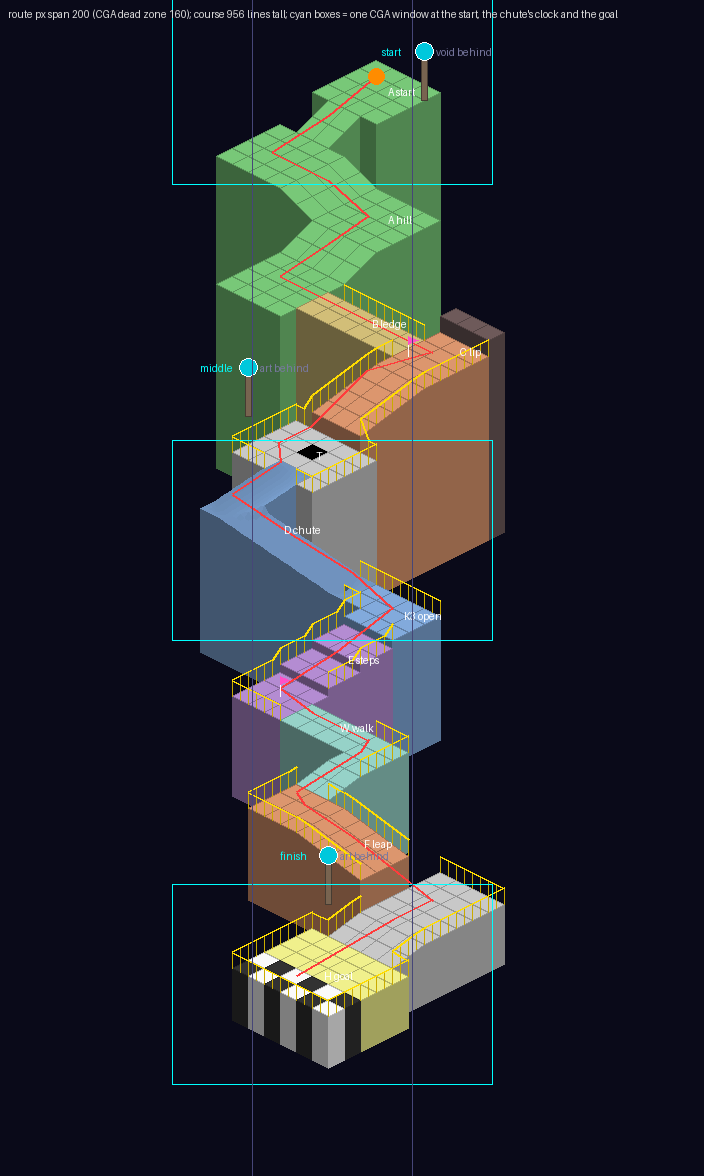
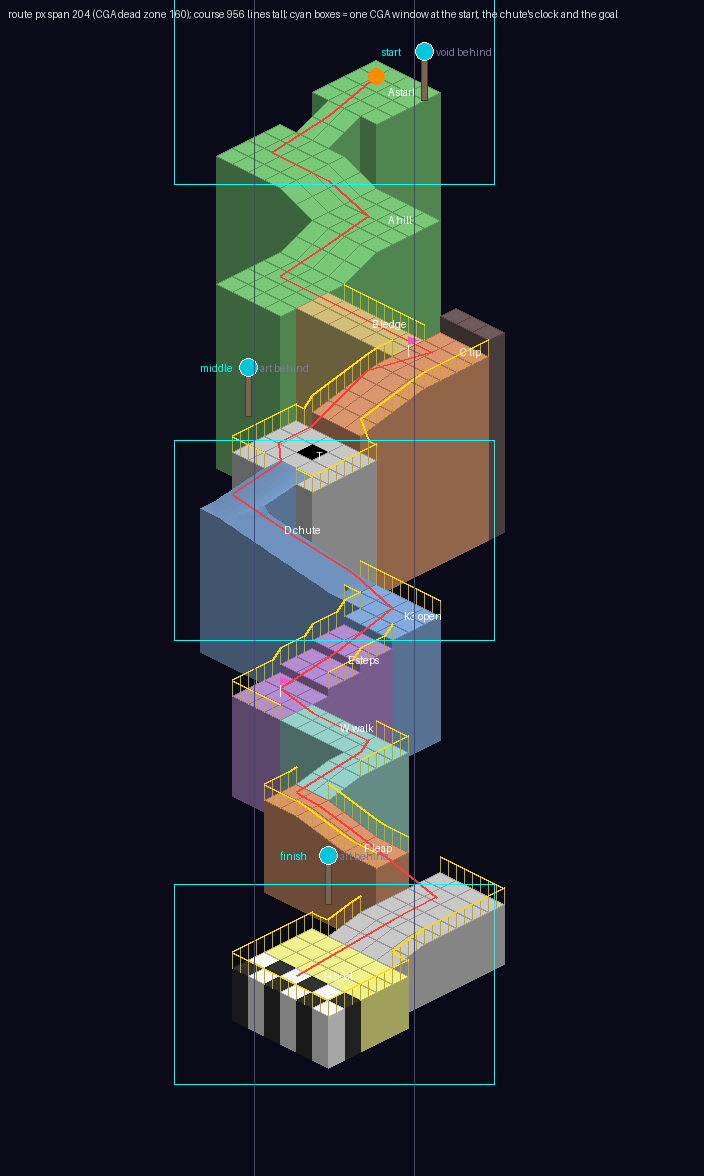
bonanza: FIRST ROLL revision 9 - a real ARCHWAY by the leap (the leap's approach 2 wide), the chevrons kept off the rails, one more diagonal
The owner's mark-up of playtest 6, read by diffing their edited preview
against the one sent: the first landing's back corner cut (half up), and
four black pixels on the chevrons. decals.py now compiles through a render
that keeps each pixel's owner cell and paints a decal only where its own
floor is the visible surface, so the chevrons stay off the rails; the
owner's pixels go on after. The banner frame is replaced by an ARCHWAY
(SPEC.md 130.39, `under 3`) over a flat cell by the lip, the approach
made 2 wide to suit it. The model clears the leap (36.2 s, no fall, no
pan); the part 9,807 bytes on the disk.

Claude-Session: https://claude.ai/code/session_01Wo8a4suEiDfFPFBsnHYKF3

Changed region(s): [[0.3438, 0.6735, 0.625, 0.7959]]

diff --git a/docs/plans/bonanza-courses/first/decals.py b/docs/plans/bonanza-courses/first/decals.py
@@ -49,11 +49,16 @@ START = (9, 9, Z)                                      # the start cell and its 
 LIP = (24, 27, 24, 28, Z - 6, Z - 8)                   # the lip ramp: x 24 - 27, y 24 - 28, z 20 -> 18 (+y)
 
 
+# (revision 9: the FRAME and its banner are gone - the owner: "The ball rolls in front of the arch, because
+# its just art ... But we have an actual arch, as a prop, we can use" - the sketch lays an ARCHWAY instead)
+
+# the owner's own pixels on the chevrons (2026-11-18, read off their edit of the preview): black, in picture
+# coordinates - three where the tile under the leading arm showed through, one to even the forward arrow
+CHEV_TOUCH = [(251, 401), (250, 402), (249, 403), (232, 415)]
+
+
 def geometry_lines():
-    L = ["# the FRAME before the leap: the run-up's last rail blocks raised into pillars",
-         "wall  tile %d %d  flat %g" % (RUNUP_X, FRAME_Y[0], FRAME_TOP),
-         "wall  tile %d %d  flat %g" % (RUNUP_X, FRAME_Y[1] - 1, FRAME_TOP),
-         "# LONE pillars in the void, away from the path, each topped by a pennant"]
+    L = ["# LONE pillars in the void, away from the path, each topped by a pennant"]
     for x, y, z in LONE:
         L += ["floor tile %d %d  flat %g" % (x, y, z), "float tile %d %d" % (x, y)]
     return L
@@ -61,16 +66,20 @@ def geometry_lines():
 
 # ---- rasterising ---------------------------------------------------------------
 class Art:
-    """pixels (picture px) -> colour, with an outline pass"""
+    """pixels (picture px) -> colour, with an outline pass; `host`: the cells a decal may be painted on -
+    a pixel whose VISIBLE surface (the canvas's owner, the tile that drew it last) is another cell is left
+    alone, so a decal never paints over a rail or anything else standing in front of its floor"""
 
-    def __init__(self):
+    def __init__(self, host=None):
         self.px = {}
+        self.host = host
 
     def outline(self, inside, colour, box):
         """fill the pixels whose centre `inside` accepts with colour, and every filled pixel with a
         4-neighbour outside the shape black: a one-pixel line, the game's"""
         x0, y0, x1, y1 = box
-        got = {(x, y) for y in range(y0, y1) for x in range(x0, x1) if inside(x + 0.5, y + 0.5)}
+        got = {(x, y) for y in range(y0, y1) for x in range(x0, x1) if inside(x + 0.5, y + 0.5)
+               and (self.host is None or owner_at(x, y) in self.host)}
         for (x, y) in got:
             edge = any((x + dx, y + dy) not in got for dx, dy in ((1, 0), (-1, 0), (0, 1), (0, -1)))
             self.px[(x, y)] = K if edge else colour(x, y)
@@ -85,6 +94,29 @@ class Art:
             f.write("# %s\n# GENERATED by docs/plans/bonanza-courses/first/decals.py - edit that, not this\n" % note)
             f.write("\n".join(rows) + "\n")
         return ax, ay
+
+
+CANVAS = []
+
+
+def owner_at(x, y):
+    """the cell that drew picture pixel (x, y) last, from the course's own render (None: nothing)"""
+    cv = CANVAS[-1]
+    if not (0 <= y < cv.h and 0 <= x < cv.w):
+        return None
+    v = cv.obuf[y][x]
+    return None if v < 0 else (v >> 8, v & 255)
+
+
+def capture_render():
+    """compile through a render that keeps every pixel's owner (Canvas.obuf), and keep the picture's canvas"""
+    orig = B.render
+
+    def rec(tiles, ops, x0, y0, w, h, owners=False):
+        cv = orig(tiles, ops, x0, y0, w, h, True)
+        CANVAS.append(cv)
+        return cv
+    B.render = rec
 
 
 def floor_point(c, X, Y, z):
@@ -127,8 +159,8 @@ def tee(c):
 
 def chevrons(c):
     """two chevrons down the lip's ramp, pointing downhill (+y): magenta, black-lined"""
-    a = Art()
     x0, x1, y0, y1, za, zb = LIP
+    a = Art(host={(x, y) for x in range(x0, x1) for y in range(y0, y1)})
     zf = lambda X, Y: za if Y is None else za + (zb - za) * min(1, max(0, (Y - y0) / (y1 - y0)))
     cx = (x0 + x1) / 2.0
     tips = (25.55, 26.75)                                # each chevron's tip, y
@@ -148,6 +180,8 @@ def chevrons(c):
     rx, ry = floor_point(c, cx + 1.2, y1, zb)
     a.outline(inside, lambda sx, sy: M, (int(min(lx, rx)) - 30, int(min(ly, ry)) - 30,
                                          int(max(lx, rx)) + 30, int(max(ly, ry)) + 30))
+    for p in CHEV_TOUCH:                               # the owner's pixels
+        a.px[p] = K
     return a
 
 
@@ -212,10 +246,11 @@ def main():
         src = f.read()
     src = re.sub(re.escape(BEGIN) + r".*?" + re.escape(END) + r"\n?", "", src, flags=re.S).rstrip("\n") + "\n"
     geo = "\n".join([BEGIN] + geometry_lines()) + "\n"
+    capture_render()
     c = B.compile_course(src + geo, COURSE)
+    CANVAS[:] = [cv for cv in CANVAS if cv.w == 8 * c.cols][-1:]      # the picture's own canvas
     pieces = [("tee", tee(c), "the start's TEE: a magenta disc, black rim, white highlight"),
-              ("chev", chevrons(c), "two CHEVRONS down the lip's ramp, pointing downhill"),
-              ("banner", banner(c), "the FRAME's BANNER before the leap, 4 units over the floor")]
+              ("chev", chevrons(c), "two CHEVRONS down the lip's ramp, pointing downhill")]
     for i, (x, y, z) in enumerate(LONE):
         pieces.append(("pen%d" % i, pennant(c, x, y, z), "a lone pillar's PENNANT"))
     lines = []

diff --git a/docs/plans/bonanza-courses/first/sketch.py b/docs/plans/bonanza-courses/first/sketch.py
@@ -17,9 +17,10 @@ SECTION = {}
 RAILS = []           # (x0, y0, x1, y1) a guard rail along a tile edge
 WALLS = []           # (x0, y0, x1, y1, z) a solid block
 HOLES = set()
+ARCHES = [(43, 43, 44, 45, "x", 3)]                          # (the owner: "where it was before"; a passage needs a floor past it)                          # (x0, y0, x1, y1, along, under): SPEC.md 130.39
 # revision 8 (the owner's edit of the diagonal variant): half cells made VOID - (wx, wy, side): the start
 # plateau's corners and its front corner on a diagonal, and the hill landings' outer corners
-HALVES = [(4, 4, "up"), (7, 4, "right"), (4, 7, "left"), (7, 7, "down"),
+HALVES = [(4, 4, "up"), (7, 4, "right"), (4, 7, "left"), (7, 7, "down"), (4, 10, "up"),
           (4, 13, "left"), (13, 10, "right"), (10, 19, "left"), (13, 19, "down")]
 NOTES = []           # (wx, wy, z, text)
 
@@ -144,10 +145,13 @@ rail(40, 38, 40, 41); rail(38, 38, 40, 38)   # the elbow's lone left block gone:
 ramp("W", "y", 38, 41, 40, 43, Z - 16.5, Z - 17.5)          # 2 tiles (revision 5: the lip took 2)
 # F  the leap: a railed elbow, a run-up along +x (no rail across its entry:
 #    rails protect, never block), a ONE-tile gap, a landing 2 units under the lip
-floor("F", 38, 43, 41, 46, Z - 17.5)
-rail(38, 43, 38, 46); rail(38, 46, 41, 46); rail(40, 43, 41, 43)
-ramp("F", "x", 41, 43, 45, 46, Z - 17.5, Z - 19.5)
-rail(41, 43, 45, 43); rail(41, 46, 45, 46)
+#    (revision 9: TWO wide from the walk on, so a real ARCHWAY - SPEC.md 130.39, at most 2 x 2 flat cells -
+#    stands over its first flat cell; its legs take the rail blocks' places, `under 3` so a Hop passes)
+floor("F", 38, 43, 40, 45, Z - 17.5)                         # the elbow, 2 x 2
+rail(38, 43, 38, 45); rail(38, 45, 40, 45)
+ramp("F", "x", 40, 43, 43, 45, Z - 17.5, Z - 19)             # the run-up, 2 wide
+floor("F", 43, 43, 45, 45, Z - 19)                           # the ARCHWAY's cell (x 43) and the lip's (x 44), flat:
+rail(40, 43, 45, 43); rail(40, 45, 45, 45)                   # the arch stands where the banner did, by the leap
 floor("G", 46, 42, 50, 47, Z - 21.5)                           # the landing
 rail(46, 42, 50, 42); rail(50, 42, 50, 47)
 # H  the finish: a short ramp down and a wide goal plateau, all in view
@@ -172,7 +176,7 @@ PLACED = {}
 ROUTE = [(5.5, 5.5), (6, 9), (6, 12.5), (9, 12), (12, 12.5), (12, 15), (12, 18), (14, 18), (20, 18),
          (21.5, 18), (20.4, 21), (20.4, 24.5), (20.4, 26.5), (21.5, 27.5), (21.5, 30.5), (25, 30.5), (29, 30.5),
          (32.5, 31.5), (32.5, 35), (32.5, 38.5), (35, 39), (38.5, 39), (39, 40), (39, 42), (39, 44),
-         (40, 44.5), (43, 44.5), (48, 44.5), (48, 47), (48, 53)]
+         (40.5, 44), (43, 44), (48, 44.2), (48, 47), (48, 53)]
 LABELS = [(6, 6, "A start"), (12, 12, "A hill"), (17, 18, "B ledge"), (21.5, 17, "C lip"),
           (21.5, 26, "T"), (24, 30.5, "D chute"), (32.5, 31.5, "K3 open"),
           (32.5, 35, "E steps"), (36, 39, "W walk"), (43, 44.5, "F leap"),
@@ -352,6 +356,7 @@ HEAD_TXT = """
 course ROLL "First Roll"
 guide                     # a REAL course: held to the course guide's checkable rules (G1, G3, G9 - G12)
 width 64
+uses archway              # the ARCHWAY before the leap (SPEC.md 130.39)
 lock across               # SPEC.md 130.45: the camera held across - the whole course is one window wide
 stop down                 # SPEC.md 130.45.4: the camera scrolls no further once the finish is in view
 ball rubber
@@ -410,6 +415,9 @@ def bbc(out):
         L.append("hole  tile %d %d" % (x + OFF, y + OFF))
     for x, y, side in HALVES:
         L.append("hole  half %s tile %d %d          # a diagonal corner" % (side, x + OFF, y + OFF))
+    for x0, y0, x1, y1, along, under in ARCHES:
+        L.append("archway rect %d %d %d %d along %s under %g   # SPEC.md 130.39: a Hop passes under it"
+                 % (x0 + OFF, y0 + OFF, x1 + OFF, y1 + OFF, along, under))
     L.append("goal  rect %d %d %d %d  flat %g" % (min(g[0] for g in GOAL) + OFF, min(g[1] for g in GOAL) + OFF,
                                                max(g[0] for g in GOAL) + 1 + OFF, max(g[1] for g in GOAL) + 1 + OFF,
                                                CELLS[min(GOAL)][0]))

diff --git a/docs/plans/bonanza-courses/FIRST-ROLL.md b/docs/plans/bonanza-courses/FIRST-ROLL.md
@@ -1,6 +1,6 @@
 # FIRST ROLL: design sheet, attempt 1
 
-*Status: **IN THE ENGINE, playtest 6, revision 8** (art prototypes; the owner's start platform) (`apps/bonanza/courses/roll.bbc`,
+*Status: **IN THE ENGINE, playtest 7, revision 9** (the archway before the leap; the chevrons fixed)
 built by `make BUILD=build/roll BZROLL=1 bonanzadisk`). While the LAYOUT
 moves, `first/sketch.py --bbc --force` writes `roll.bbc` from the sketch, and
 its header lines travel in the sketch, so nothing hand-made is lost. Once
@@ -15,6 +15,31 @@ then this course is built under a working name of its own in the tool,
 `ROLL`, and it takes FIRST when the prototype goes.
 
 **What each revision changed (the owner, 2026-11-18):**
+- **Revision 9, from playtest 6's mark-up** (*"Pretty good."*):
+  - one more diagonal: the first landing's back corner (the owner blacked
+    out its top half; read off their edit by diffing it against the
+    preview);
+  - the CHEVRONS no longer paint over the rails. The generator reads which
+    cell drew each pixel last (the render's owner buffer) and paints only
+    where the lip's ramp is the visible surface. The owner's four black
+    pixels are applied after that (three where the tile showed through
+    the leading arm, one to even the forward arrow);
+  - the banner FRAME is replaced by a real ARCHWAY (SPEC.md 130.39; the
+    owner: *"The ball rolls in front of the arch, because its just art ...
+    But we have an actual arch, as a prop"*). An archway stands over flat
+    cells, at most 2 x 2, with a whole floor past it, so the leap's
+    approach is TWO wide from the walk:
+    - a 2 x 2 elbow;
+    - a 3-tile ramp falling 1.5 units;
+    - the arch's flat cell (`under 3`: a Hop passes);
+    - one flat tile, the lip;
+    - the gap.
+
+    The arch's legs take the rail blocks' places. The arch stands by the
+    leap, where the banner did (*"where it was before"*); the first try,
+    over the run-up's start, hid half the ramp. The landing is now 2.5
+    units below the lip;
+  - MEASURED on the model: 36.2 s, no fall, no pan. The part is 9,807 bytes on the disk.
 - **Revision 8, the owner's edit of the diagonal variant** (*"Add a
   diagonal to the black marked column, and remove the red marked columns.
   This starts them on a visually interesting platform, and its not that

diff --git a/docs/plans/BOUNCE-BONANZA-DIARY.md b/docs/plans/BOUNCE-BONANZA-DIARY.md
@@ -6055,3 +6055,45 @@ its not that hard to roll down a 2 wide path."* Projected back to cells:
 The variant's other corner cuts came with it, as the edit was drawn on it.
 The model's run is unchanged (37.2 s, no fall, no pan). The part is 10,000
 bytes on the disk.
+
+## 2026-11-18 (FIRST ROLL revision 9: a real archway, the chevrons fixed)
+
+The owner, on playtest 6:
+
+> Pretty good. One more block to make diagonal; edited it, and red arrow
+> pointing at it. Arrows: They sit on top of the rails, but we can fix
+> that in the art. Also there are a couple of blue pixels from the
+> underlying tile that make it look weird; but we can fix that with a
+> couple extra black pixels (and added one to the forward arrow to even it
+> out the same visual way). The ball rolls in front of the arch, because
+> its just art and what is actually there is the ramp, which the ball rolls
+> on top of. But we have an actual arch, as a prop, we can use and that
+> should work.
+
+And of the first archway: *"Having the arch further north like that blocks
+off half the ramp. Can it be where it was before, still 2 high above the
+ramp?"*
+
+**Reading the owner's edit.** Their marked-up preview is the same size as
+the one sent, so a pixel diff finds every change:
+- 107 black pixels blacking out the first landing's back corner (its top
+  half: `hole half up`);
+- four single black pixels on the chevrons;
+- the red marks as annotation.
+
+No guessing at coordinates.
+
+**The chevrons.** Art is the topmost layer, so a chevron pixel painted where
+a rail stands in front of the ramp landed on the rail. The generator now
+compiles through a render that keeps each pixel's owner cell
+(`Canvas.obuf`) and paints only where the visible surface is the ramp. The
+owner's four pixels are applied after.
+
+**The archway.** An archway (SPEC.md 130.39) needs flat cells under it, at
+most 2 x 2, and a whole floor beyond it, so the leap's approach became 2
+wide with flat cells for the arch and the lip. The first place (the
+run-up's start) hid half the ramp; it now stands by the lip. `under 3`, so
+a Hop passes. The model still clears the leap: 36.2 s, no fall, no pan.
+
+**Run**: the tool and previews, the model's steered run, the playtest
+build. **Not run**: the guest (fork rule 5).
